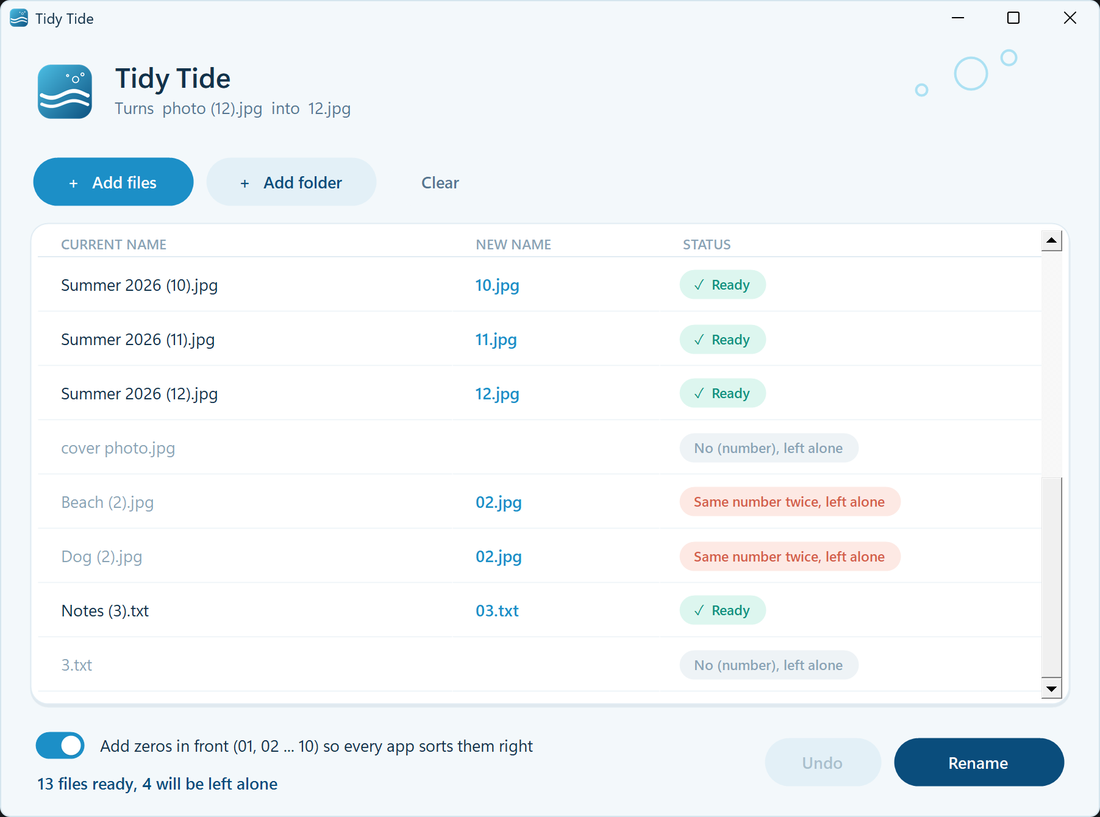
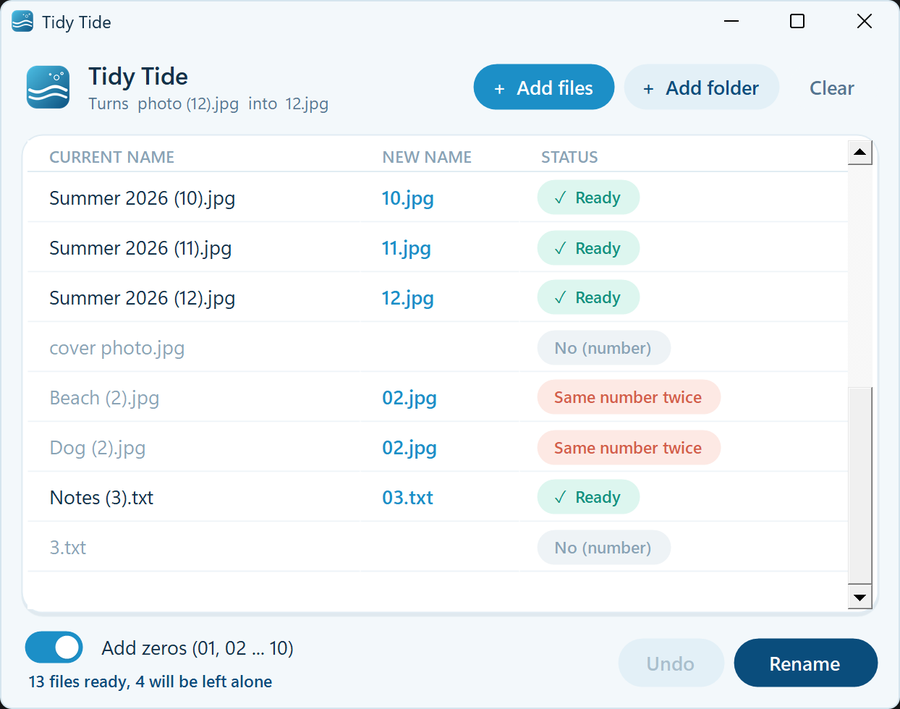
Make the app window compact
Smaller window (620x460 at 100%), logo, title and buttons in one header row,
tighter list rows, smaller drop zone and footer, shorter status badges.
README screenshots and status names updated to match.

diff --git a/README.md b/README.md
@@ -20,7 +20,7 @@ When you select a bunch of files in Windows and rename them all at once, Windows
 Drop the files in and check the preview. Then press **Rename**. If something looks wrong, press **Undo**.
 
 <p align="center">
-  <img src="assets/screenshots/app.png" width="760" alt="Tidy Tide showing a preview: Summer 2026 (1).jpg becomes 01.jpg, Summer 2026 (2).jpg becomes 02.jpg, and so on, each marked Ready">
+  <img src="assets/screenshots/app.png" width="560" alt="Tidy Tide showing a preview: Summer 2026 (1).jpg becomes 01.jpg, Summer 2026 (2).jpg becomes 02.jpg, and so on, each marked Ready">
 </p>
 
 ## How it works
@@ -28,11 +28,11 @@ Drop the files in and check the preview. Then press **Rename**. If something loo
 1. **Add your files.** Drag them onto the window, use **Add files** / **Add folder**, or right-click them in File Explorer and choose **Send to → Tidy Tide**.
 2. **Check the preview.** Every file shows its new name and a status:
    - **Ready**: it will be renamed.
-   - **No (number), left alone**: the name doesn't end in a number in brackets.
-   - **Same number twice, left alone**: two files would get the same new name.
-   - **Name already taken, left alone**: a file with the new name already exists.
+   - **No (number)**: left alone, because the name doesn't end in a number in brackets.
+   - **Same number twice**: left alone, because two files would get the same new name.
+   - **Name already taken**: left alone, because a file with the new name already exists.
 
-   <img src="assets/screenshots/app-statuses.png" width="640" alt="Tidy Tide list showing Ready files next to files marked Same number twice and No (number), left alone">
+   <img src="assets/screenshots/app-statuses.png" width="480" alt="Tidy Tide list showing Ready files next to files marked Same number twice and No (number)">
 3. **Press Rename.** Only the files marked Ready are renamed. Nothing is ever overwritten.
 4. **Changed your mind?** Press **Undo** to put the names back.
 
